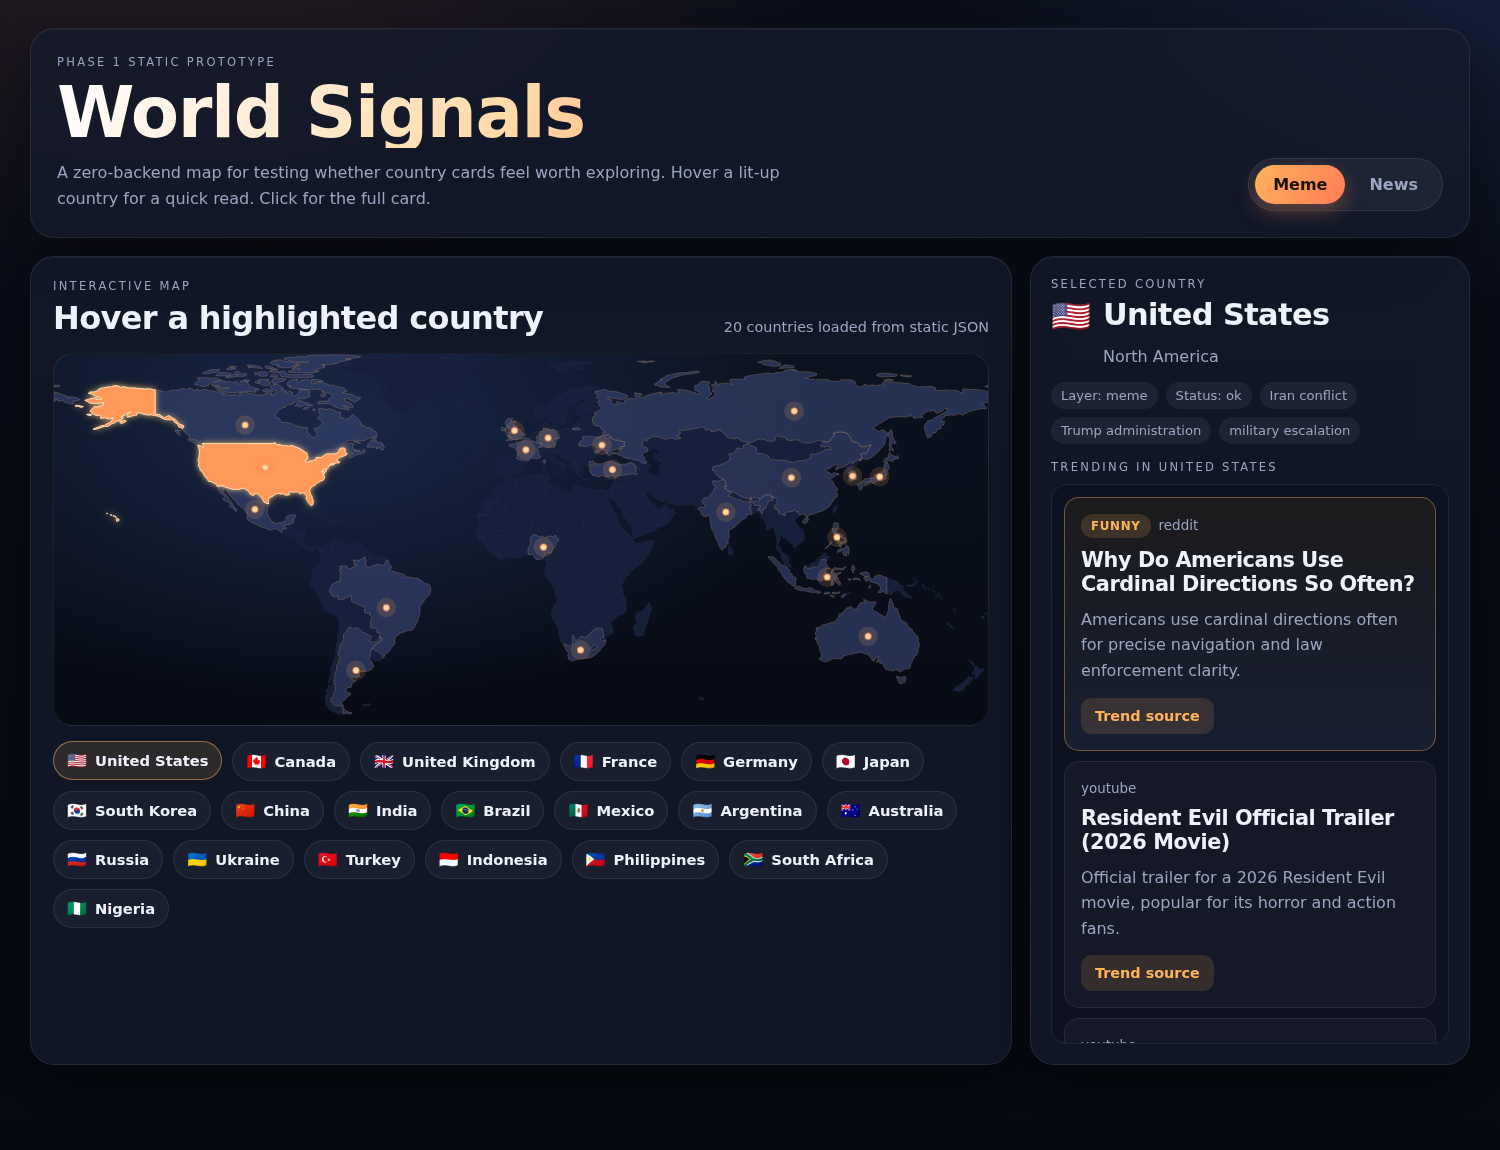
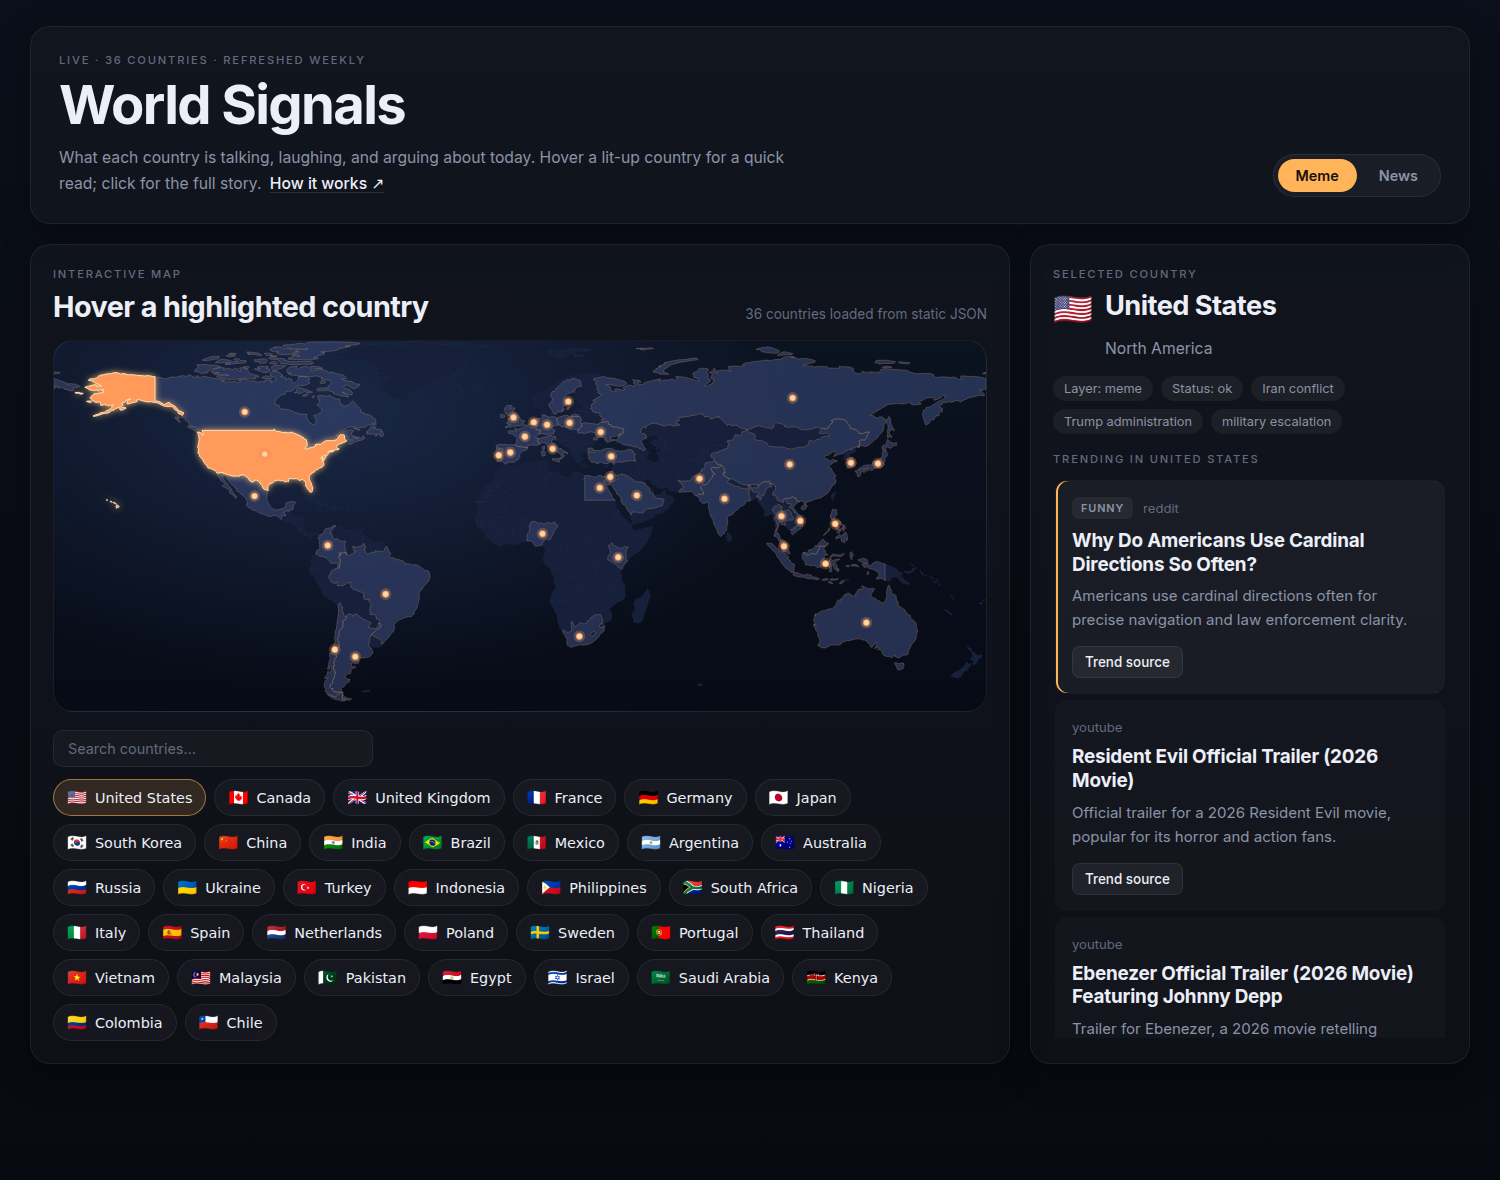
add another 16 country

diff --git a/README.md b/README.md
@@ -4,7 +4,7 @@
 
 **A live map of what the world is talking, laughing, and arguing about.**
 
-Hover any of 20 countries to see, for *today*: its top news story and a piece of
+Hover any of 36 countries to see, for *today*: its top news story and a piece of
 real internet culture (a Reddit thread or a trending YouTube video), each
 explained for an outsider by an LLM.
 
@@ -36,11 +36,12 @@ The visible product is a map. The parts worth talking about are underneath:
   *news-driven*. The fix was to pull culture from where it actually lives:
   **Reddit country/culture subreddits + YouTube regional trending.**
 
-- **Reddit without an API.** Reddit's JSON endpoints are `403` for anonymous
+- **Reddit against the grain.** Reddit's JSON endpoints are `403` for anonymous
   clients, but the `.rss` feeds still return `200`. They rate-limit hard
   (~20–30s recovery between hits), so requests go through a **global throttle**
   that spaces them out — and LLM latency between countries counts toward the
-  interval, so the real run pays almost nothing extra.
+  interval, so the real run pays almost nothing extra. CI, whose datacenter IP
+  gets blocked outright, uses read-only OAuth instead.
 
 - **A pluggable filter pipeline, not vibes.** Before the LLM ever sees a
   candidate, rule-based filters `drop` / `penalize` / `boost` it (routine
@@ -88,14 +89,15 @@ The browser only ever touches the static JSON on the right.
 | Layer | Source | Notes |
 |-------|--------|-------|
 | News | Google News RSS (per-country `hl`/`gl`/`ceid`) | free, no key |
-| Culture | Reddit country/culture subreddits (`.rss`) | free; rate-limited, throttled |
+| Culture | Reddit country/culture subreddits | free; anonymous RSS locally, read-only OAuth in CI |
 | Culture | YouTube Data API v3 — regional `mostPopular` | free quota; ~1 unit/country |
 | Fallback | Google Trends RSS, Wikipedia pageviews | used only when the above are thin |
 | Summaries | OpenAI `gpt-4.1-mini` | selection + cross-cultural explanation |
 
 ## Tech
 
-Vanilla JS + SVG (no framework) frontend rendering a real GeoJSON world map ·
+Vanilla JS + SVG (no framework) frontend rendering a real GeoJSON world map with
+hover, country search, a news/meme layer toggle, and a scrollable card stream ·
 Python data pipeline (`requests`, standard library) · GitHub Actions + GitHub
 Pages for scheduled refresh and hosting. Zero backend, zero database — the
 "API" is a folder of committed JSON.
@@ -105,7 +107,7 @@ Pages for scheduled refresh and hosting. Zero backend, zero database — the
 ```bash
 pip install -r requirements.txt
 
-# 1) generate data (needs API keys; ~15 min for all 20 countries)
+# 1) generate data (needs API keys; ~25 min for all 36 countries)
 python scripts/probe.py --output-dir outputs/phase0
 python scripts/export_phase1_data.py
 
@@ -159,5 +161,5 @@ Pages → Source → *GitHub Actions*.
 
 - Mood layer (color the map by emotional tone)
 - Time machine (weekly snapshots → "what was trending last week")
-- Country search, share cards / OG previews, an About page
 - More countries and native-language subs
+- Privacy-friendly analytics
